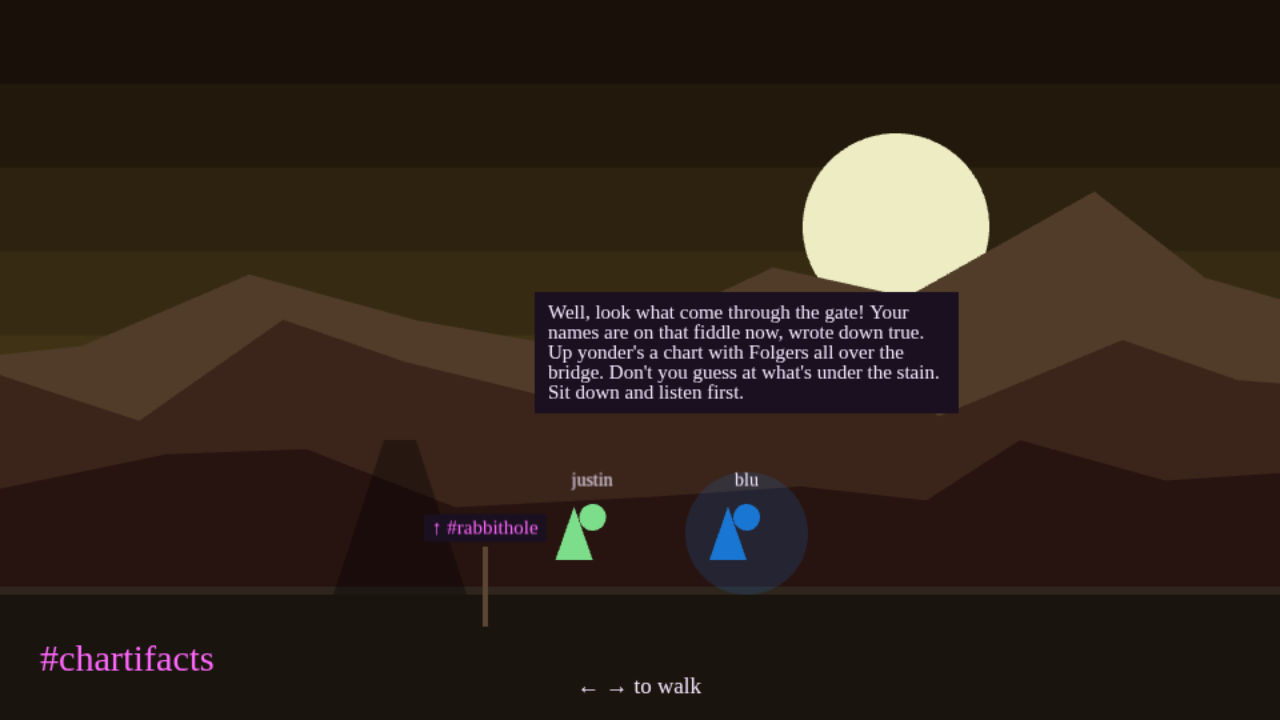
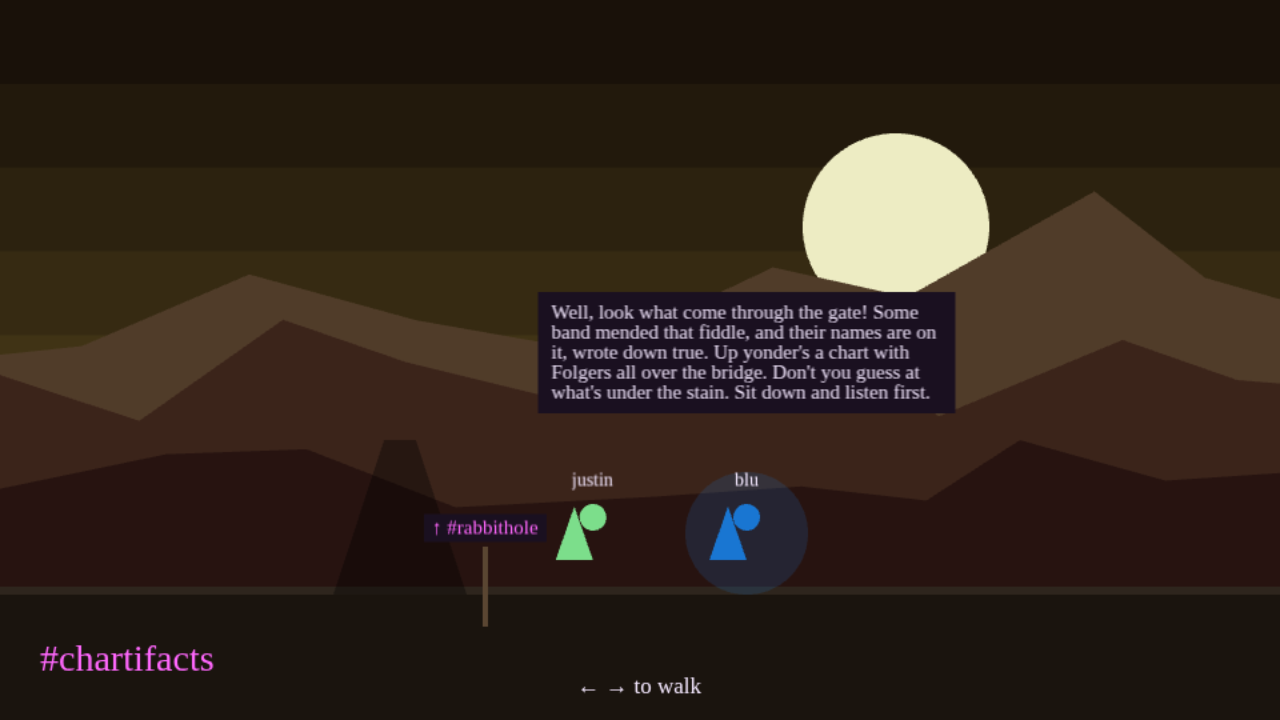
Retake blu's bubble with the new words; re's words are what's left to write
The longer line still wraps to five lines inside the bubble, played through
the gate after two headless pickers mended the fiddle.

Changed region(s): [[0.4062, 0.4278, 0.75, 0.5806]]

diff --git a/README.md b/README.md
@@ -97,7 +97,7 @@ These matter more than any one feature. A pull request that breaks one gets aske
 ## What's next
 
 - **Who you are, before mends are kept.** Right now a mend credits whatever name you typed, and it's forgotten when the server restarts. Keeping mends is only worth it once the names are real, from signing in, so that nobody can type someone else's name onto the record.
-- Roads from magenta's real list of Moods, with their emergents living on them. blu and re write their own words.
+- Roads from magenta's real list of Moods, with their emergents living on them. re writes her own words, as blu did.
 - A map that fills in as you walk, the Super Metroid way.
 - Junctions from the [connectome](https://pickipedia.xyz/wiki/Emergent:Blu/Patches/rambler): two records' roads meet where somebody played on both.
 - Trophy halls of on-chain merch, starting with [Set Stones](https://pickipedia.xyz/wiki/Set_Stones).
